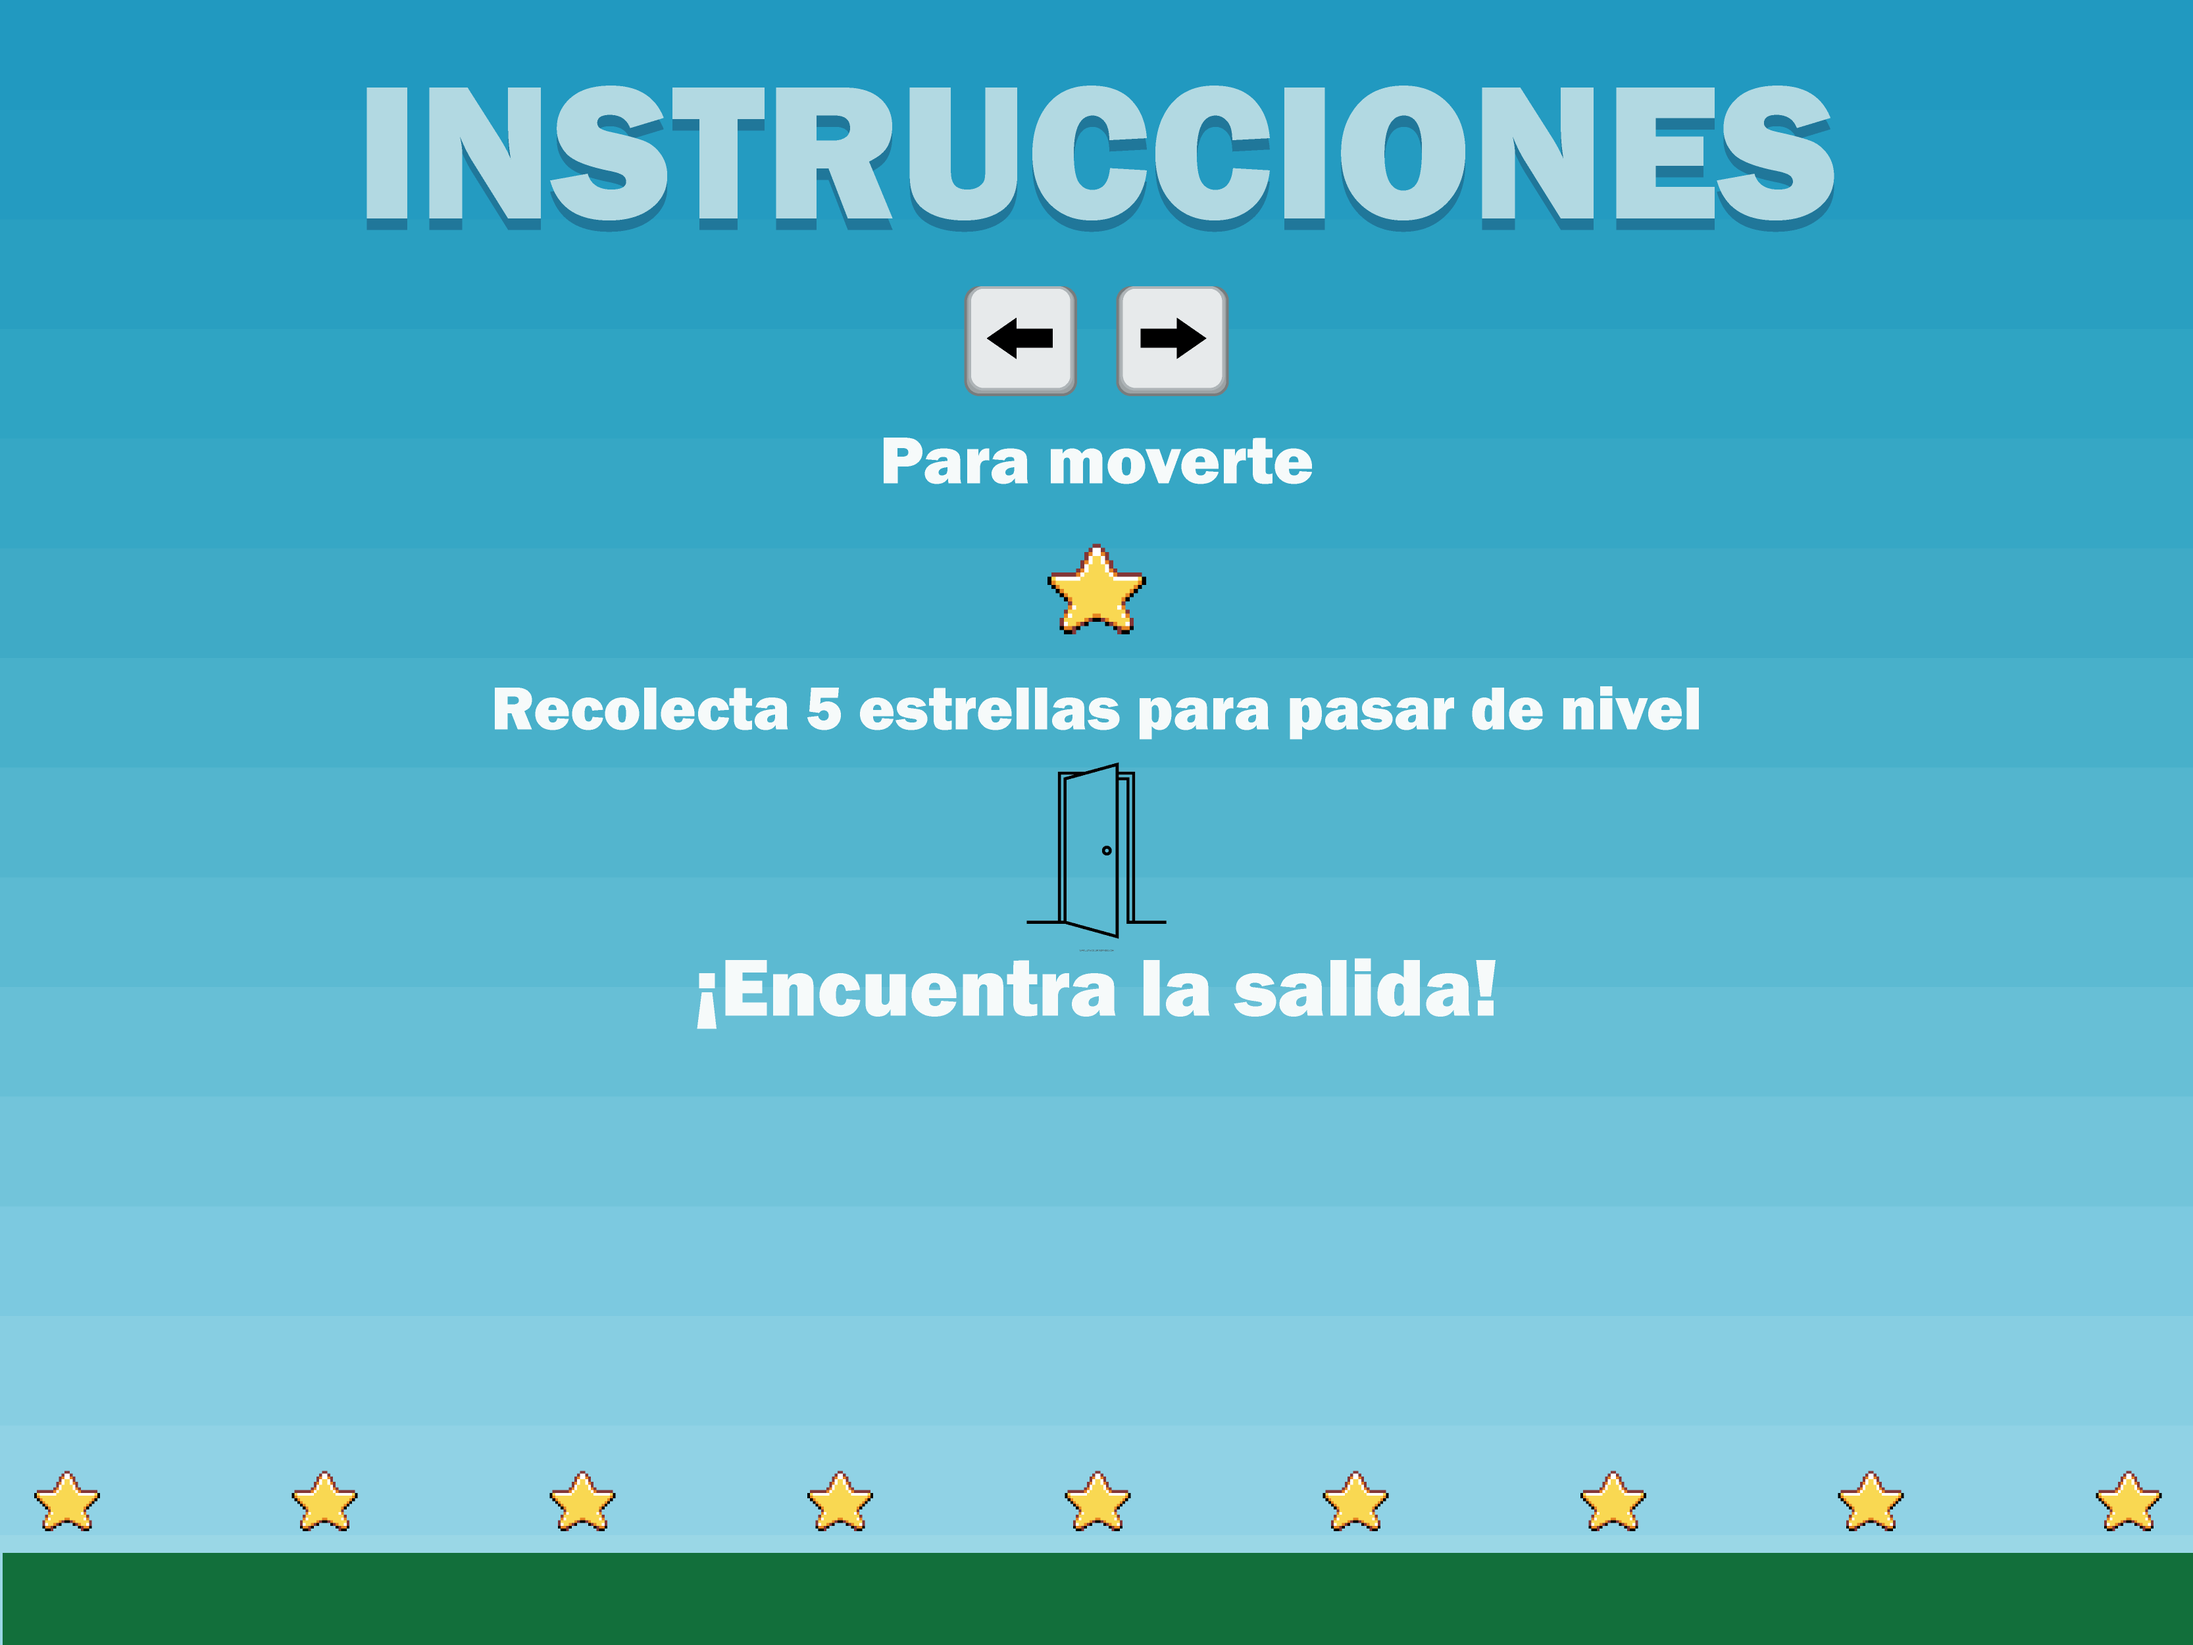
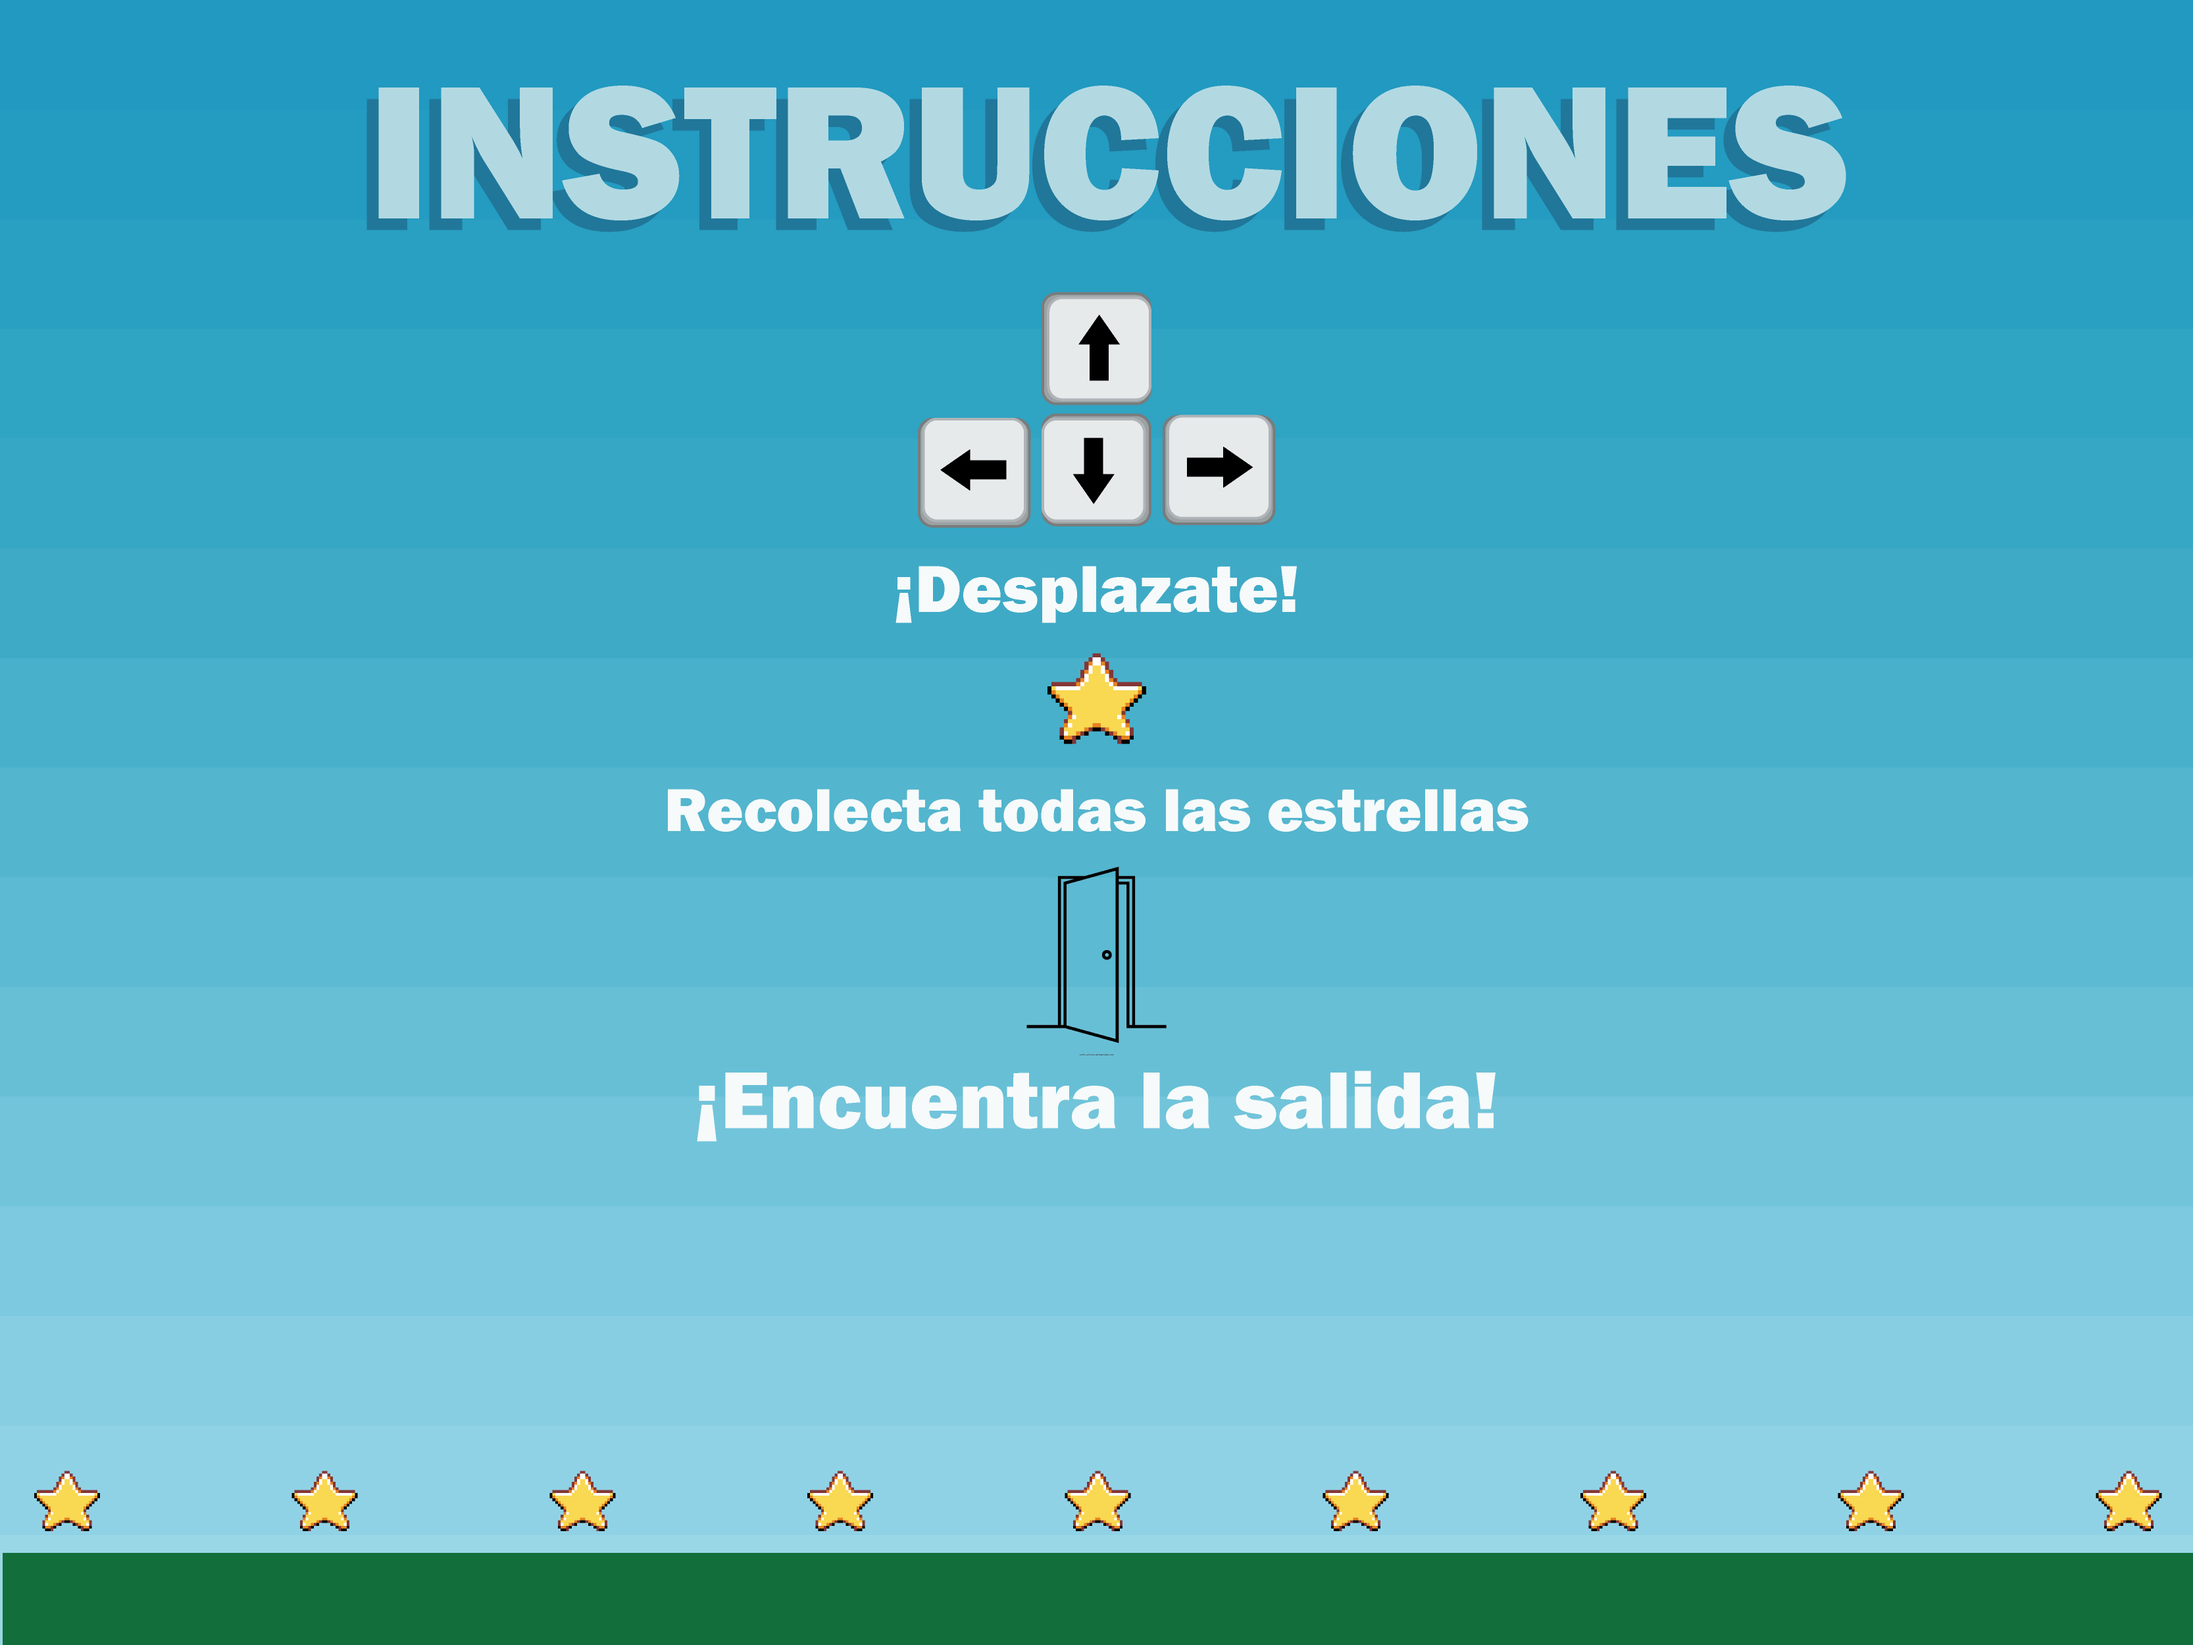
Nivel 3 e instrucciones terminado

diff --git a/src/scenes/Instrucciones.js b/src/scenes/Instrucciones.js
@@ -12,7 +12,7 @@ export default class Instrucciones extends Phaser.Scene {
     }
     create() {
         this.add.image(400, 300, "instrucciones").setScale(0.24);
-        const button= this.add.image(400, 445, "comenzar").setScale(0.22).setInteractive();
+        const button= this.add.image(400, 470, "comenzar").setScale(0.22).setInteractive();
         
         button.on("pointerover", () => {
             this.game.canvas.style.cursor = "pointer"

diff --git a/src/scenes/Nivel1.js b/src/scenes/Nivel1.js
@@ -132,6 +132,9 @@ export default class Juego extends Phaser.Scene {
     if (this.cursors.up.isDown && this.jugador.body.blocked.down) {
       this.jugador.setVelocityY(-330);
     }
+    if (this.cursors.down.isDown) {
+    this.jugador.setVelocityY(200);
+    }
   }
 
   recolectarEstrella(jugador, estrella) {
